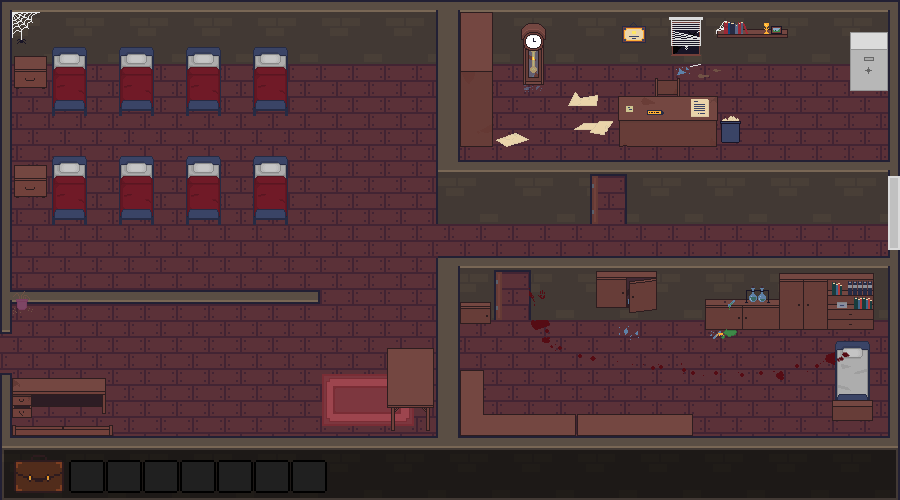
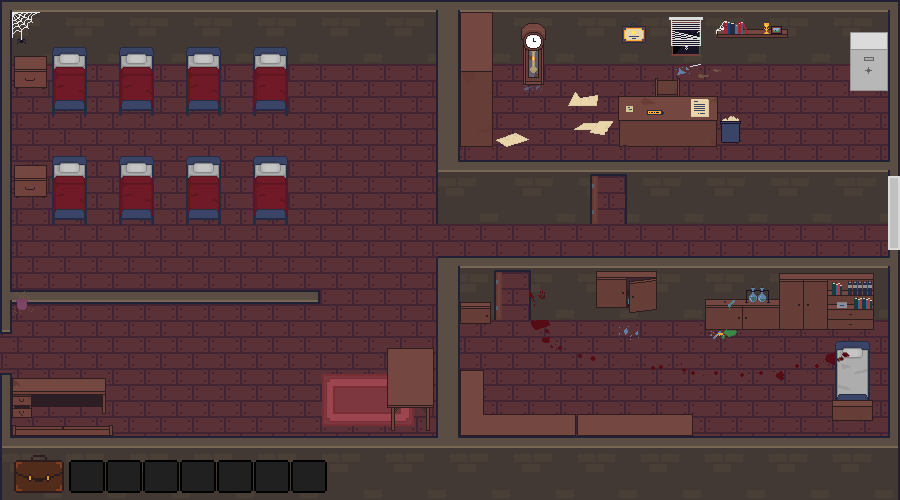
mapa updated

Changed region(s): [[0.0, 0.9, 0.9956, 1.0]]

diff --git a/src/assets/js/mapa.js b/src/assets/js/mapa.js
@@ -13,7 +13,7 @@ export class Engine{
       x: 0,
       y: 0,
     },
-    imageSrc: "assets/img/mapaJuegoMurderofCrime2.png",
+    imageSrc: "assets/img/mapaJuegoMurderofCrime.png",
   });
   spacePressed = false;
   tutorial1_image = new Image();
